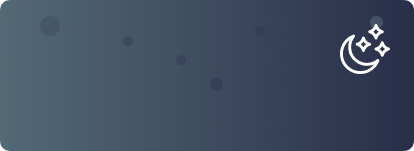
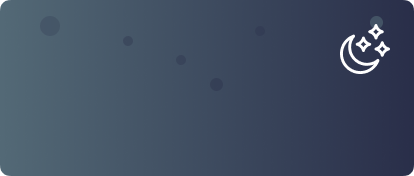
[HomePage] Update weather UI without wave effect

diff --git a/lib/src/features/home/presentation/widgets/weather_home_page.dart b/lib/src/features/home/presentation/widgets/weather_home_page.dart
@@ -7,6 +7,7 @@ import 'package:plant_market/src/core/presentation/custom_widgets/custom_shimmer
 import 'package:plant_market/src/core/presentation/custom_widgets/custom_svg.dart';
 import 'package:plant_market/src/features/home/data/models/weather_model.dart';
 import 'package:plant_market/src/features/home/presentation/bloc/home_page_bloc.dart';
+import 'package:plant_market/src/features/home/presentation/widgets/weather_background.dart';
 import 'package:plant_market/src/theme/color_theme.dart';
 import 'package:plant_market/src/theme/text_theme.dart';
 
@@ -37,8 +38,8 @@ class _WeatherHomeageState extends State<WeatherHomeage> {
           );
         } else {
           return Stack(
-            alignment: Alignment.center,
             children: [
+              const WeatherBacground(),
               Padding(
                 padding: context.padding(horizontal: 10, top: 20),
                 child: Row(
@@ -50,7 +51,7 @@ class _WeatherHomeageState extends State<WeatherHomeage> {
                     _buildWeatherPart(weatherModel),
                   ],
                 ),
-              )
+              ),
             ],
           );
         }
@@ -67,7 +68,6 @@ class _WeatherHomeageState extends State<WeatherHomeage> {
           iconPath: imageConstant.locationSVG,
           value: weatherModel.name!,
           context: context,
-          paddingTop: 0,
         ),
         Text(
           '${(weatherModel.main!.temp! - 273).toInt()}°C',
@@ -80,17 +80,20 @@ class _WeatherHomeageState extends State<WeatherHomeage> {
   Widget _buildWeatherPart(WeatherModel weatherModel) {
     return Column(
       crossAxisAlignment: CrossAxisAlignment.start,
+      mainAxisSize: MainAxisSize.min,
       children: [
         _buildRowItem(
           iconPath: imageConstant.humiditySVG,
           value: '${weatherModel.main!.humidity} %',
           context: context,
         ),
+        context.sizedBox(height: 15),
         _buildRowItem(
           iconPath: imageConstant.windSVG,
           value: '${weatherModel.wind!.speed} m/s',
           context: context,
         ),
+        context.sizedBox(height: 15),
         _buildRowItem(
           iconPath: imageConstant.binocularsSVG,
           value: '${weatherModel.main!.pressure} hPa',
@@ -104,29 +107,25 @@ class _WeatherHomeageState extends State<WeatherHomeage> {
     required String iconPath,
     required String value,
     required BuildContext context,
-    double? paddingTop,
   }) {
-    return Padding(
-      padding: context.padding(top: paddingTop ?? 10),
-      child: Row(
-        mainAxisSize: MainAxisSize.min,
-        crossAxisAlignment: CrossAxisAlignment.end,
-        children: [
-          CustomSvg(
-            path: iconPath,
-            color: colorTheme.getFFFFFF,
-            width: context.sizeWidth(20),
-            height: context.sizeWidth(20),
-          ),
-          context.sizedBox(width: 5),
-          Text(
-            value,
-            style: AppTextTheme.darkTheme(context).titleLarge!.copyWith(
-                  fontSize: context.sizeWidth(14),
-                ),
-          ),
-        ],
-      ),
+    return Row(
+      mainAxisSize: MainAxisSize.min,
+      crossAxisAlignment: CrossAxisAlignment.end,
+      children: [
+        CustomSvg(
+          path: iconPath,
+          color: colorTheme.getFFFFFF,
+          width: context.sizeWidth(20),
+          height: context.sizeWidth(20),
+        ),
+        context.sizedBox(width: 5),
+        Text(
+          value,
+          style: AppTextTheme.darkTheme(context).titleLarge!.copyWith(
+                fontSize: context.sizeWidth(14),
+              ),
+        ),
+      ],
     );
   }
 }

diff --git a/lib/src/features/home/presentation/pages/home_page.dart b/lib/src/features/home/presentation/pages/home_page.dart
@@ -1,18 +1,4 @@
-import 'package:flutter/material.dart';
-import 'package:flutter_bloc/flutter_bloc.dart';
-import 'package:plant_market/src/core/extension/localization.dart';
-import 'package:plant_market/src/core/extension/responsive.dart';
-import 'package:plant_market/src/core/presentation/custom_widgets/background_container.dart';
-import 'package:plant_market/src/core/presentation/custom_widgets/custom_see_all_button.dart';
-import 'package:plant_market/src/core/presentation/custom_widgets/custom_title.dart';
-import 'package:plant_market/src/features/home/presentation/bloc/home_page_bloc.dart';
-import 'package:plant_market/src/features/home/presentation/widgets/header_home_page.dart';
-import 'package:plant_market/src/features/home/presentation/widgets/popular_topic_button.dart';
-import 'package:plant_market/src/features/home/presentation/widgets/list_post_home_page.dart';
-import 'package:plant_market/src/features/home/presentation/widgets/search_bar_button.dart';
-import 'package:plant_market/src/features/home/presentation/widgets/shake_animation_home_page.dart';
-import 'package:plant_market/src/features/home/presentation/widgets/row_topic_button.dart';
-import 'package:plant_market/src/features/my_app/presentation/bloc/my_app_bloc.dart';
+part of 'part_home_page.dart';
 
 class HomePage extends StatefulWidget {
   const HomePage({super.key});
@@ -48,7 +34,7 @@ class _HomePageState extends State<HomePage>
                         child: Column(
                           crossAxisAlignment: CrossAxisAlignment.start,
                           children: [
-                            const HeaderHomePage(),
+                            const WeatherHomeage(),
                             context.sizedBox(height: 15),
                             Padding(
                                 padding: context.padding(horizontal: 12),

diff --git a/lib/src/features/setting/presentation/page/setting_page.dart b/lib/src/features/setting/presentation/page/setting_page.dart
@@ -1,21 +1,4 @@
-import 'dart:developer';
-
-import 'package:flutter/material.dart';
-import 'package:flutter_bloc/flutter_bloc.dart';
-import 'package:go_router/go_router.dart';
-import 'package:plant_market/src/core/extension/localization.dart';
-import 'package:plant_market/src/core/extension/responsive.dart';
-import 'package:plant_market/src/core/presentation/custom_widgets/custom_title.dart';
-import 'package:plant_market/src/core/presentation/page/base_page.dart';
-import 'package:plant_market/src/features/setting/presentation/bloc/setting_bloc.dart';
-import 'package:plant_market/src/features/setting/presentation/widgets/delete_account_button.dart';
-import 'package:plant_market/src/features/setting/presentation/widgets/log_out_button.dart';
-import 'package:plant_market/src/features/setting/presentation/widgets/privacy_button.dart';
-import 'package:plant_market/src/features/setting/presentation/widgets/share_friend_button.dart';
-import 'package:plant_market/src/features/setting/presentation/widgets/theme_language_button.dart';
-import 'package:plant_market/src/features/setting/presentation/widgets/user_info_button.dart';
-import 'package:plant_market/src/features/setting/presentation/widgets/version_text.dart';
-import 'package:plant_market/src/router/router_path.dart';
+part of 'part_setting_page.dart';
 
 class SettingPage extends BaseWidget {
   const SettingPage({super.key});

diff --git a/lib/src/features/setting/presentation/page/part_setting_page.dart b/lib/src/features/setting/presentation/page/part_setting_page.dart
@@ -1,0 +1,21 @@
+import 'dart:developer';
+
+import 'package:flutter/material.dart';
+import 'package:flutter_bloc/flutter_bloc.dart';
+import 'package:go_router/go_router.dart';
+import 'package:plant_market/src/core/extension/localization.dart';
+import 'package:plant_market/src/core/extension/responsive.dart';
+import 'package:plant_market/src/core/presentation/custom_widgets/custom_title.dart';
+import 'package:plant_market/src/core/presentation/page/base_page.dart';
+import 'package:plant_market/src/features/setting/presentation/bloc/setting_bloc.dart';
+import 'package:plant_market/src/features/setting/presentation/widgets/delete_account_button.dart';
+import 'package:plant_market/src/features/setting/presentation/widgets/log_out_button.dart';
+import 'package:plant_market/src/features/setting/presentation/widgets/privacy_button.dart';
+import 'package:plant_market/src/features/setting/presentation/widgets/share_friend_button.dart';
+import 'package:plant_market/src/features/setting/presentation/widgets/theme_language_button.dart';
+import 'package:plant_market/src/features/setting/presentation/widgets/user_info_button.dart';
+import 'package:plant_market/src/features/setting/presentation/widgets/version_text.dart';
+import 'package:plant_market/src/router/router_path.dart';
+
+
+part 'setting_page.dart';

diff --git a/lib/src/features/home/presentation/pages/part_home_page.dart b/lib/src/features/home/presentation/pages/part_home_page.dart
@@ -1,0 +1,17 @@
+import 'package:flutter/material.dart';
+import 'package:flutter_bloc/flutter_bloc.dart';
+import 'package:plant_market/src/core/extension/localization.dart';
+import 'package:plant_market/src/core/extension/responsive.dart';
+import 'package:plant_market/src/core/presentation/custom_widgets/background_container.dart';
+import 'package:plant_market/src/core/presentation/custom_widgets/custom_see_all_button.dart';
+import 'package:plant_market/src/core/presentation/custom_widgets/custom_title.dart';
+import 'package:plant_market/src/features/home/presentation/bloc/home_page_bloc.dart';
+import 'package:plant_market/src/features/home/presentation/widgets/popular_topic_button.dart';
+import 'package:plant_market/src/features/home/presentation/widgets/list_post_home_page.dart';
+import 'package:plant_market/src/features/home/presentation/widgets/search_bar_button.dart';
+import 'package:plant_market/src/features/home/presentation/widgets/shake_animation_home_page.dart';
+import 'package:plant_market/src/features/home/presentation/widgets/row_topic_button.dart';
+import 'package:plant_market/src/features/home/presentation/widgets/weather_home_page.dart';
+import 'package:plant_market/src/features/my_app/presentation/bloc/my_app_bloc.dart';
+
+part 'home_page.dart';

diff --git a/lib/src/features/user/presentation/page/user_page.dart b/lib/src/features/user/presentation/page/user_page.dart
@@ -1,15 +1,4 @@
-import 'package:flutter/material.dart';
-import 'package:flutter_bloc/flutter_bloc.dart';
-import 'package:logger/logger.dart';
-import 'package:plant_market/src/core/extension/responsive.dart';
-import 'package:plant_market/src/core/presentation/custom_widgets/custom_button.dart';
-import 'package:plant_market/src/core/presentation/custom_widgets/custom_modal.dart';
-import 'package:plant_market/src/core/presentation/page/base_page.dart';
-import 'package:plant_market/src/features/user/data/mock/mock_user.dart';
-import 'package:plant_market/src/features/user/presentation/bloc/user_bloc.dart';
-import 'package:plant_market/src/features/user/presentation/widgets/create_post_modal.dart';
-import 'package:plant_market/src/features/user/presentation/widgets/separator.dart';
-import 'package:plant_market/src/features/user/presentation/widgets/time_line_item.dart';
+part of 'part_user_page.dart';
 
 class UserPage extends BaseWidget {
   const UserPage({super.key});

diff --git a/lib/src/features/user/presentation/page/part_user_page.dart b/lib/src/features/user/presentation/page/part_user_page.dart
@@ -1,0 +1,15 @@
+import 'package:flutter/material.dart';
+import 'package:flutter_bloc/flutter_bloc.dart';
+import 'package:logger/logger.dart';
+import 'package:plant_market/src/core/extension/responsive.dart';
+import 'package:plant_market/src/core/presentation/custom_widgets/custom_button.dart';
+import 'package:plant_market/src/core/presentation/custom_widgets/custom_modal.dart';
+import 'package:plant_market/src/core/presentation/page/base_page.dart';
+import 'package:plant_market/src/features/user/data/mock/mock_user.dart';
+import 'package:plant_market/src/features/user/presentation/bloc/user_bloc.dart';
+import 'package:plant_market/src/features/user/presentation/widgets/create_post_modal.dart';
+import 'package:plant_market/src/features/user/presentation/widgets/separator.dart';
+import 'package:plant_market/src/features/user/presentation/widgets/time_line_item.dart';
+
+
+part 'user_page.dart';

diff --git a/lib/src/features/home/presentation/widgets/weather_background.dart b/lib/src/features/home/presentation/widgets/weather_background.dart
@@ -1,0 +1,29 @@
+import 'package:flutter/material.dart';
+import 'package:plant_market/src/core/data/defines/constants/image_constant.dart';
+
+class WeatherBacground extends StatelessWidget {
+  const WeatherBacground({super.key});
+
+  @override
+  Widget build(BuildContext context) {
+    return Image.asset(_backgroundImage());
+  }
+
+  String _backgroundImage() {
+    return _isNightTime() ? imageConstant.nightImage : imageConstant.sunnyImage;
+  }
+
+  bool _isNightTime() {
+    DateTime now = DateTime.now();
+    int currentHour = now.hour;
+    int sunsetHour = 18; // 6:00 PM
+    int sunriseHour = 6; // 6:00 AM
+    if (currentHour >= sunsetHour || currentHour < sunriseHour) {
+      // It's night
+      return true;
+    } else {
+      // It's sunny
+      return false;
+    }
+  }
+}

diff --git a/lib/src/features/dash_board/page/dash_board_page.dart b/lib/src/features/dash_board/page/dash_board_page.dart
@@ -1,13 +1,4 @@
-import 'package:flutter/material.dart';
-import 'package:plant_market/src/core/extension/localization.dart';
-import 'package:plant_market/src/core/extension/responsive.dart';
-import 'package:plant_market/src/features/dash_board/widgets/item_bottom_nav_bar.dart';
-import 'package:plant_market/src/features/home/presentation/pages/home_page.dart';
-import 'package:plant_market/src/features/setting/presentation/page/setting_page.dart';
-import 'package:plant_market/src/features/user/presentation/page/user_page.dart';
-import 'package:salomon_bottom_bar/salomon_bottom_bar.dart';
-
-
+part of 'part_dash_board_page.dart';
 
 class DashBoardPage extends StatefulWidget {
   const DashBoardPage({super.key});

diff --git a/lib/src/router/app_router.dart b/lib/src/router/app_router.dart
@@ -2,7 +2,7 @@ import 'package:go_router/go_router.dart';
 import 'package:plant_market/src/core/data/defines/constants/app_constant.dart';
 import 'package:plant_market/src/features/auth/login/presentation/pages/login_page.dart';
 import 'package:plant_market/src/features/auth/otp/presentation/page/otp_page.dart';
-import 'package:plant_market/src/features/dash_board/page/dash_board_page.dart';
+import 'package:plant_market/src/features/dash_board/page/part_dash_board_page.dart';
 import 'package:plant_market/src/features/search/presentation/pages/search_page.dart';
 import 'package:plant_market/src/features/shake_animation/presentation/pages/shake_animation_page.dart';
 

diff --git a/lib/src/features/dash_board/page/part_dash_board_page.dart b/lib/src/features/dash_board/page/part_dash_board_page.dart
@@ -1,0 +1,10 @@
+import 'package:flutter/material.dart';
+import 'package:plant_market/src/core/extension/localization.dart';
+import 'package:plant_market/src/core/extension/responsive.dart';
+import 'package:plant_market/src/features/dash_board/widgets/item_bottom_nav_bar.dart';
+import 'package:plant_market/src/features/home/presentation/pages/part_home_page.dart';
+import 'package:plant_market/src/features/setting/presentation/page/part_setting_page.dart';
+import 'package:plant_market/src/features/user/presentation/page/part_user_page.dart';
+import 'package:salomon_bottom_bar/salomon_bottom_bar.dart';
+
+part 'dash_board_page.dart';

diff --git a/lib/src/features/auth/auth_gate.dart b/lib/src/features/auth/auth_gate.dart
@@ -1,7 +1,7 @@
 import 'package:firebase_auth/firebase_auth.dart';
 import 'package:flutter/material.dart';
 import 'package:plant_market/src/features/auth/login/presentation/pages/login_page.dart';
-import 'package:plant_market/src/features/dash_board/page/dash_board_page.dart';
+import 'package:plant_market/src/features/dash_board/page/part_dash_board_page.dart';
 
 class AuthGate extends StatelessWidget {
   const AuthGate({Key? key}) : super(key: key);
